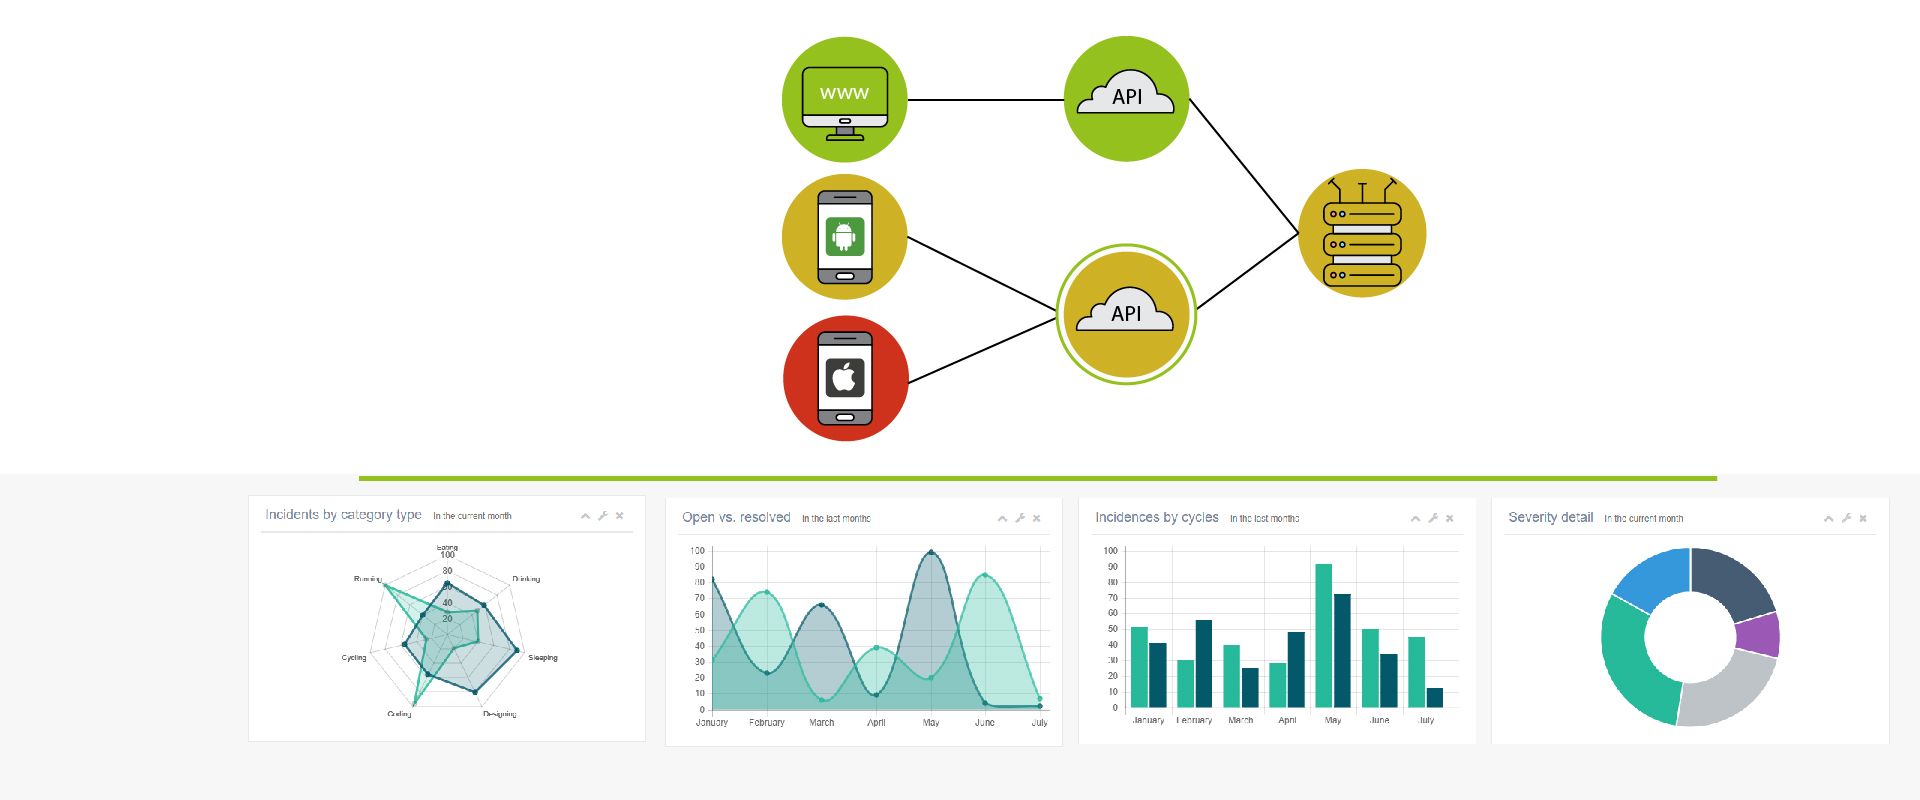
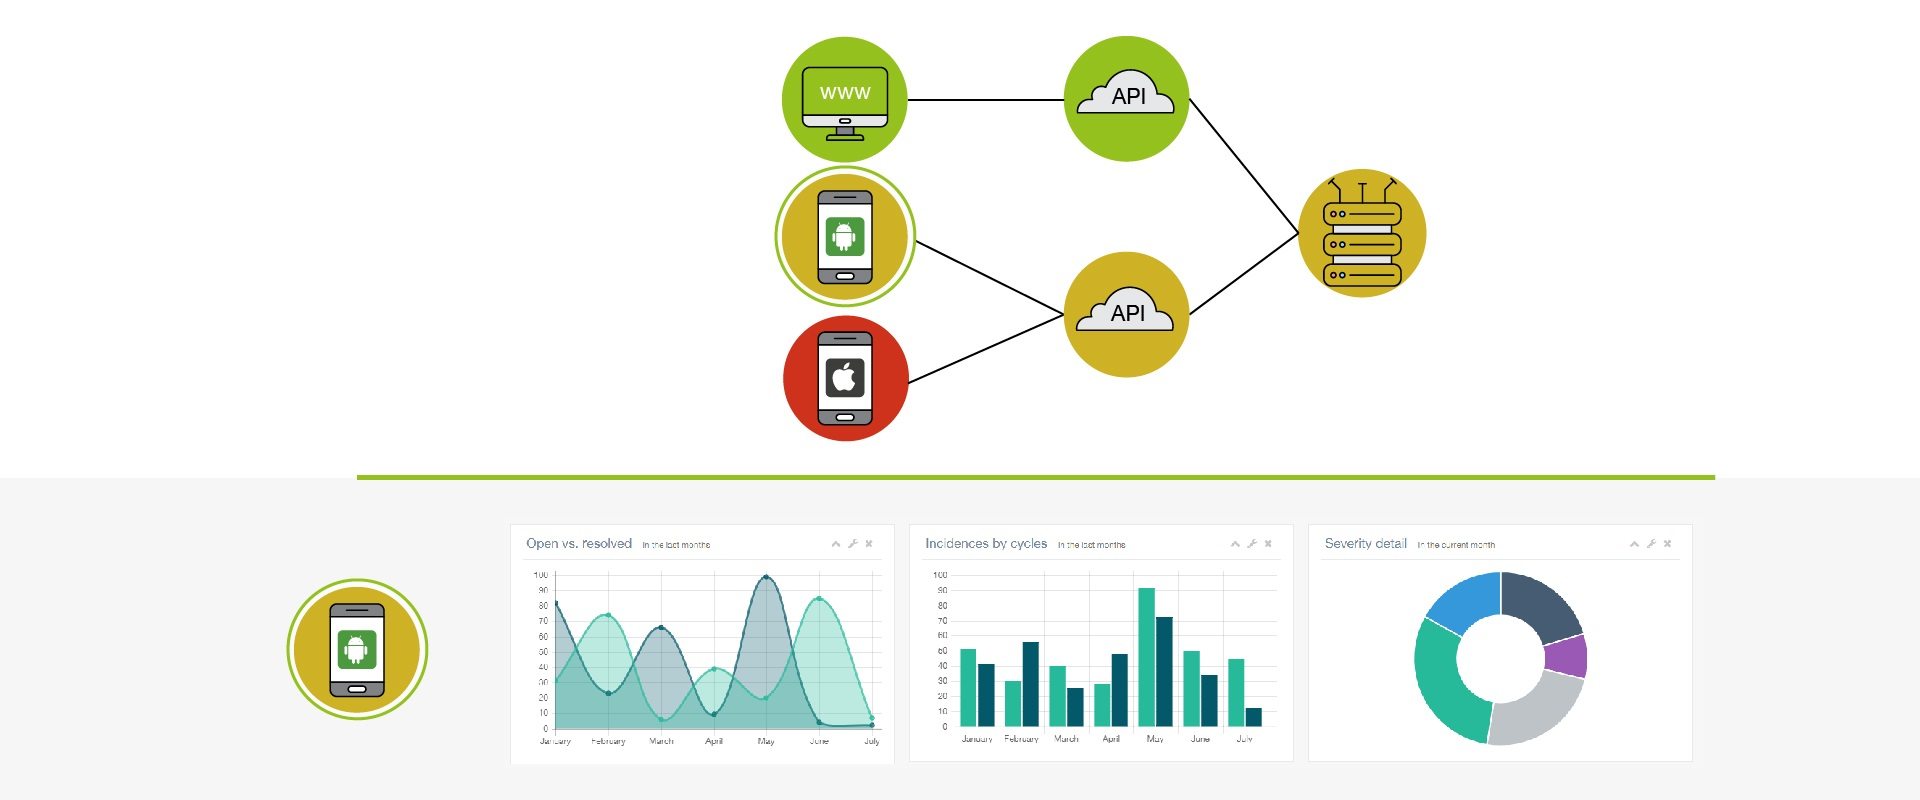
Cambios: platform + versions dashboards

diff --git a/2. Desarrollo/production/my_performance.html b/2. Desarrollo/production/my_performance.html
@@ -55,7 +55,7 @@
             <br />
 
             <!-- sidebar menu -->
-            <div id="sidebar-menu" class="main_menu_side hidden-print main_menu">
+           <div id="sidebar-menu" class="main_menu_side hidden-print main_menu">
               <div class="menu_section">
                 <h3>General</h3>
                 <ul class="nav side-menu">
@@ -79,9 +79,10 @@
                   </li>
                   <li><a><i class="fa fa-line-chart"></i> Dashboards <span class="fa fa-chevron-down"></span></a>
                     <ul class="nav child_menu">
+                      <li><a href="platform_performance.html">Platform performance</a></li>
+                      <li><a href="version_performance.html">Version performance</a></li>
                       <li><a href="team_performance.html">Team performance</a></li>
                       <li><a href="proyect_performance.html">Proyect performance</a></li>
-                      <li><a href="platform_performance.html">Platform performance</a></li>
                     </ul>
                   </li>
               </div>

diff --git a/2. Desarrollo/production/platform_performance.html b/2. Desarrollo/production/platform_performance.html
@@ -78,9 +78,10 @@
                   </li>
                   <li><a><i class="fa fa-line-chart"></i> Dashboards <span class="fa fa-chevron-down"></span></a>
                     <ul class="nav child_menu">
+                      <li><a href="platform_performance.html">Platform performance</a></li>
+                      <li><a href="version_performance.html">Version performance</a></li>
                       <li><a href="team_performance.html">Team performance</a></li>
                       <li><a href="proyect_performance.html">Proyect performance</a></li>
-                      <li><a href="platform_performance.html">Platform performance</a></li>
                     </ul>
                   </li>
               </div>
@@ -246,7 +247,7 @@
         <!-- footer content -->
         <footer>
           <div class="pull-right">
-            Gentelella - Bootstrap Admin Template by <a href="https://colorlib.com">Colorlib</a>
+            
           </div>
           <div class="clearfix"></div>
         </footer>

diff --git a/2. Desarrollo/production/proyect_performance.html b/2. Desarrollo/production/proyect_performance.html
@@ -78,9 +78,10 @@
                   </li>
                   <li><a><i class="fa fa-line-chart"></i> Dashboards <span class="fa fa-chevron-down"></span></a>
                     <ul class="nav child_menu">
+                      <li><a href="platform_performance.html">Platform performance</a></li>
+                      <li><a href="version_performance.html">Version performance</a></li>
                       <li><a href="team_performance.html">Team performance</a></li>
                       <li><a href="proyect_performance.html">Proyect performance</a></li>
-                      <li><a href="platform_performance.html">Platform performance</a></li>
                     </ul>
                   </li>
               </div>
@@ -699,7 +700,7 @@
         <!-- footer content -->
         <footer>
           <div class="pull-right">
-            Gentelella - Bootstrap Admin Template by <a href="https://colorlib.com">Colorlib</a>
+            
           </div>
           <div class="clearfix"></div>
         </footer>

diff --git a/2. Desarrollo/production/create_bug.html b/2. Desarrollo/production/create_bug.html
@@ -82,9 +82,10 @@
                   </li>
                   <li><a><i class="fa fa-line-chart"></i> Dashboards <span class="fa fa-chevron-down"></span></a>
                     <ul class="nav child_menu">
+                      <li><a href="platform_performance.html">Platform performance</a></li>
+                      <li><a href="version_performance.html">Version performance</a></li>
                       <li><a href="team_performance.html">Team performance</a></li>
                       <li><a href="proyect_performance.html">Proyect performance</a></li>
-                      <li><a href="platform_performance.html">Platform performance</a></li>
                     </ul>
                   </li>
               </div>
@@ -122,7 +123,7 @@
                     </ul>
                   </li>
               </div>
-            </div>       
+            </div>
             <!-- /sidebar menu -->
 
             <!-- /menu footer buttons -->

diff --git a/2. Desarrollo/production/version_performance.html b/2. Desarrollo/production/version_performance.html
@@ -7,7 +7,7 @@
     <meta http-equiv="X-UA-Compatible" content="IE=edge">
     <meta name="viewport" content="width=device-width, initial-scale=1">
 
-    <title>Buggreen | Platform performance </title>
+    <title>Buggreen | Version performance </title>
 
     <!-- Bootstrap -->
     <link href="../vendors/bootstrap/dist/css/bootstrap.min.css" rel="stylesheet">
@@ -240,19 +240,17 @@
 
         <!-- page content -->
         <div class="image">
-          <img src="images/Feed_QA-01.png">
+          <img src="images/versions.jpg">
         </div>
         <!-- /page content -->
 
         <!-- footer content -->
-        <!--
         <footer>
           <div class="pull-right">
-            Gentelella - Bootstrap Admin Template by <a href="https://colorlib.com">Colorlib</a>
+          
           </div>
           <div class="clearfix"></div>
         </footer>
-        -->
         <!-- /footer content -->
       </div>
     </div>

diff --git a/2. Desarrollo/production/bugboard_backlog.html b/2. Desarrollo/production/bugboard_backlog.html
@@ -79,9 +79,10 @@
                   </li>
                   <li><a><i class="fa fa-line-chart"></i> Dashboards <span class="fa fa-chevron-down"></span></a>
                     <ul class="nav child_menu">
+                      <li><a href="platform_performance.html">Platform performance</a></li>
+                      <li><a href="version_performance.html">Version performance</a></li>
                       <li><a href="team_performance.html">Team performance</a></li>
                       <li><a href="proyect_performance.html">Proyect performance</a></li>
-                      <li><a href="platform_performance.html">Platform performance</a></li>
                     </ul>
                   </li>
               </div>

diff --git a/2. Desarrollo/production/bugboard_my_team.html b/2. Desarrollo/production/bugboard_my_team.html
@@ -79,9 +79,10 @@
                   </li>
                   <li><a><i class="fa fa-line-chart"></i> Dashboards <span class="fa fa-chevron-down"></span></a>
                     <ul class="nav child_menu">
+                      <li><a href="platform_performance.html">Platform performance</a></li>
+                      <li><a href="version_performance.html">Version performance</a></li>
                       <li><a href="team_performance.html">Team performance</a></li>
                       <li><a href="proyect_performance.html">Proyect performance</a></li>
-                      <li><a href="platform_performance.html">Platform performance</a></li>
                     </ul>
                   </li>
               </div>

diff --git a/2. Desarrollo/production/my_story.html b/2. Desarrollo/production/my_story.html
@@ -72,9 +72,10 @@
                   </li>
                   <li><a><i class="fa fa-line-chart"></i> Dashboards <span class="fa fa-chevron-down"></span></a>
                     <ul class="nav child_menu">
+                      <li><a href="platform_performance.html">Platform performance</a></li>
+                      <li><a href="version_performance.html">Version performance</a></li>
                       <li><a href="team_performance.html">Team performance</a></li>
                       <li><a href="proyect_performance.html">Proyect performance</a></li>
-                      <li><a href="platform_performance.html">Platform performance</a></li>
                     </ul>
                   </li>
               </div>

diff --git a/2. Desarrollo/production/team_performance.html b/2. Desarrollo/production/team_performance.html
@@ -79,9 +79,10 @@
                   </li>
                   <li><a><i class="fa fa-line-chart"></i> Dashboards <span class="fa fa-chevron-down"></span></a>
                     <ul class="nav child_menu">
+                      <li><a href="platform_performance.html">Platform performance</a></li>
+                      <li><a href="version_performance.html">Version performance</a></li>
                       <li><a href="team_performance.html">Team performance</a></li>
                       <li><a href="proyect_performance.html">Proyect performance</a></li>
-                      <li><a href="platform_performance.html">Platform performance</a></li>
                     </ul>
                   </li>
               </div>
